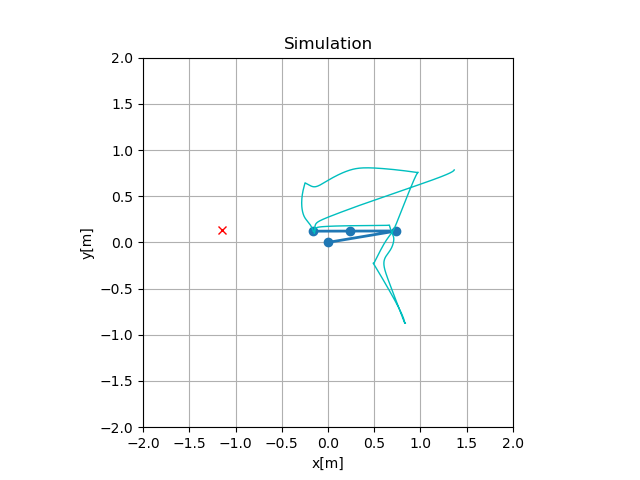
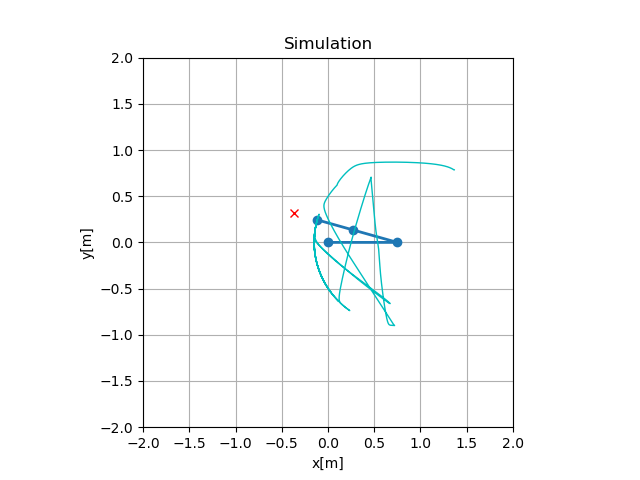
Add Results1

diff --git a/Task_Priority kinematic control (1A)/huy.py b/Task_Priority kinematic control (1A)/huy.py
@@ -1,0 +1,135 @@
+# Import necessary libraries
+from lab2_robotics import * # Includes numpy import
+import matplotlib.pyplot as plt
+import matplotlib.animation as anim
+import numpy as np
+
+# Robot definition (3 revolute joint planar manipulator)
+d = np.array([0, 0, 0])                             # displacement along Z-axis
+q = np.array([0.2, 0.5, 0.2]).reshape(3,1)          # rotation around Z-axis (theta)
+a = np.array([0.75, 0.5, 0.4])                      # displacement along X-axis
+alpha = np.array([0, 0, 0])                         # rotation around X-axis 
+revolute = [True, True, True]                       # flags specifying the type of joints
+
+# Control Parameters
+K1 = np.diag([2.0])                            # Gain cho Task 1 (Khớp 1) - Ưu tiên cao
+K2 = np.diag([2.0, 2.0])                       # Gain cho Task 2 (End-effector) - Ưu tiên thấp
+damping = 0.1                                  # Damping factor cho DLS
+dq_max = 1.0                                   # Vận tốc khớp tối đa
+
+# Desired values of task variables
+sigma1_d = np.array([[0.0]])                   # Mục tiêu Task 1: Khớp 1 giữ ở góc 0
+sigma2_d = np.array([0.0, 1.0]).reshape(2,1)   # Mục tiêu Task 2: Vị trí EE
+
+# Simulation params
+dt = 1.0/60.0
+Tt = 10 
+tt = np.arange(0, Tt, dt)
+
+# Save history
+err_ee_history = []
+joint_1_record = []
+time_history = []
+
+# Drawing preparation
+fig = plt.figure()
+ax = fig.add_subplot(111, autoscale_on=False, xlim=(-2, 2), ylim=(-2,2))
+ax.set_title('Task-Priority Control (Improved)')
+ax.set_aspect('equal')
+ax.set_xlabel('x[m]')
+ax.set_ylabel('y[m]')
+ax.grid()
+line, = ax.plot([], [], 'o-b', lw=2, label='Robot') 
+path, = ax.plot([], [], 'c--', lw=1, label='Path') 
+point, = ax.plot([], [], 'rx', ms=10, label='Target')
+ax.legend()
+PPx, PPy = [], []
+
+# Simulation initialization
+def init():
+    line.set_data([], [])
+    path.set_data([], [])
+    point.set_data([], [])
+    return line, path, point
+
+# Simulation loop
+def simulate(t):
+    global q, a, d, alpha, revolute, sigma1_d, sigma2_d
+    global PPx, PPy
+    
+    # Cập nhật mục tiêu ngẫu nhiên cho EE mỗi chu kỳ 10s (tùy chọn)
+    if t <= dt:
+        sigma2_d = np.random.uniform(-1.0, 1.0, (2, 1))
+
+    # 1. Kinematics & Jacobian
+    T = kinematics(d, q.flatten(), a, alpha)
+    J = jacobian(T, revolute)
+
+    # --- TASK 1: Điều khiển khớp 1 (Ưu tiên cao nhất) ---
+    sigma1 = np.array([[q[0,0]]])               # Góc hiện tại khớp 1
+    err1 = sigma1_d - sigma1                    # Sai số Task 1
+    J1 = np.array([[1.0, 0.0, 0.0]])            # Jacobian của Task 1
+    
+    J1_star = DLS(J1, damping)                  # Nghịch đảo DLS
+    dq1 = J1_star @ (K1 @ err1)                 # Vận tốc khớp cho Task 1
+    
+    # Tính Null Space Projector của Task 1 (Sử dụng pinv để chính xác tuyệt đối)
+    P1 = np.eye(3) - np.linalg.pinv(J1) @ J1
+
+    # --- TASK 2: Điều khiển vị trí EE (Ưu tiên thấp hơn) ---
+    sigma2 = T[-1][0:2, 3].reshape(2, 1)        # Vị trí EE hiện tại
+    err2 = sigma2_d - sigma2                    # Sai số Task 2
+    J2 = J[0:2, :]                              # Jacobian của Task 2 (x, y)
+    
+    # Chiếu Task 2 vào không gian vô hiệu của Task 1
+    J2_aug = J2 @ P1 
+    J2_aug_star = DLS(J2_aug, damping)          # Nghịch đảo DLS cho ma trận đã chiếu
+    
+    # 2. Kết hợp các Task (Task Priority Formula)
+    # dq = dq1 + J2_aug# * (v2 - J2 * dq1)
+    dq_total = dq1 + J2_aug_star @ (K2 @ err2 - J2 @ dq1)
+
+    # 3. Giới hạn vận tốc (Scaling)
+    s = np.max(np.abs(dq_total) / dq_max)
+    dq_final = dq_total / s if s > 1 else dq_total
+
+    # 4. Cập nhật trạng thái
+    q = q + dq_final * dt 
+
+    # Cập nhật hình ảnh
+    PP = robotPoints2D(T)
+    line.set_data(PP[0,:], PP[1,:])
+    PPx.append(PP[0,-1])
+    PPy.append(PP[1,-1])
+    path.set_data(PPx, PPy)
+    point.set_data(sigma2_d[0], sigma2_d[1])
+
+    # Lưu dữ liệu vẽ biểu đồ
+    err_ee_history.append(np.linalg.norm(err2))
+    joint_1_record.append(q[0, 0])
+    time_history.append(t)
+
+    return line, path, point
+
+# Run simulation
+animation = anim.FuncAnimation(fig, simulate, frames=np.arange(0, 10, dt), 
+                                interval=10, blit=True, init_func=init, repeat=False)
+plt.show()
+
+# Biểu đồ sai số
+plt.figure(figsize=(10, 5))
+plt.subplot(2,1,1)
+plt.plot(time_history, err_ee_history, 'r', label='EE Position Error')
+plt.ylabel('Error (m)')
+plt.legend()
+plt.grid(True)
+
+plt.subplot(2,1,2)
+plt.plot(time_history, joint_1_record, 'b', label='Joint 1 Angle')
+plt.axhline(y=sigma1_d[0,0], color='k', linestyle='--', label='Target q1')
+plt.xlabel('Time (s)')
+plt.ylabel('Angle (rad)')
+plt.legend()
+plt.grid(True)
+plt.tight_layout()
+plt.show()

diff --git a/Task_Priority kinematic control (1A)/lab3_two_tasks_caseB.py b/Task_Priority kinematic control (1A)/lab3_two_tasks_caseB.py
@@ -73,7 +73,7 @@ def simulate(t):
     #Use Damped Least Squares (DLS)
     J2_star = DLS(J2, damping) 
     dq2 = J2_star @ (K2 @ err2)                 # Joint velocity for Task 2
-    P2 = np.eye(3) - J2_star @ J2               # Null space projector of Task 2 
+    P2 = np.eye(3) - np.linalg.pinv(J2) @ J2    # Null space projector of Task 2 
 
      # TASK 1
     sigma1 = T[-1][0:2, 3].reshape(2, 1)            # Current position of the end-effector
